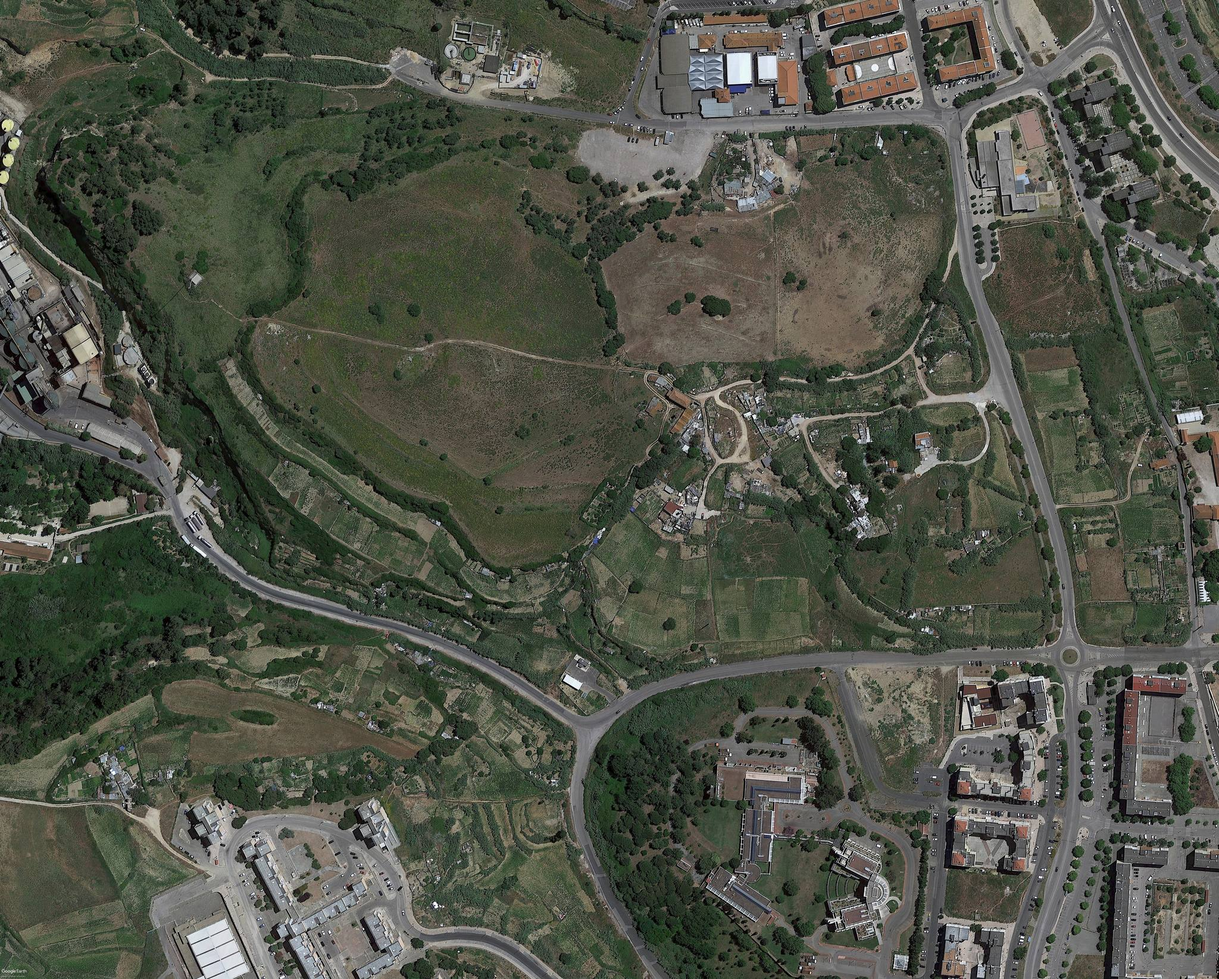
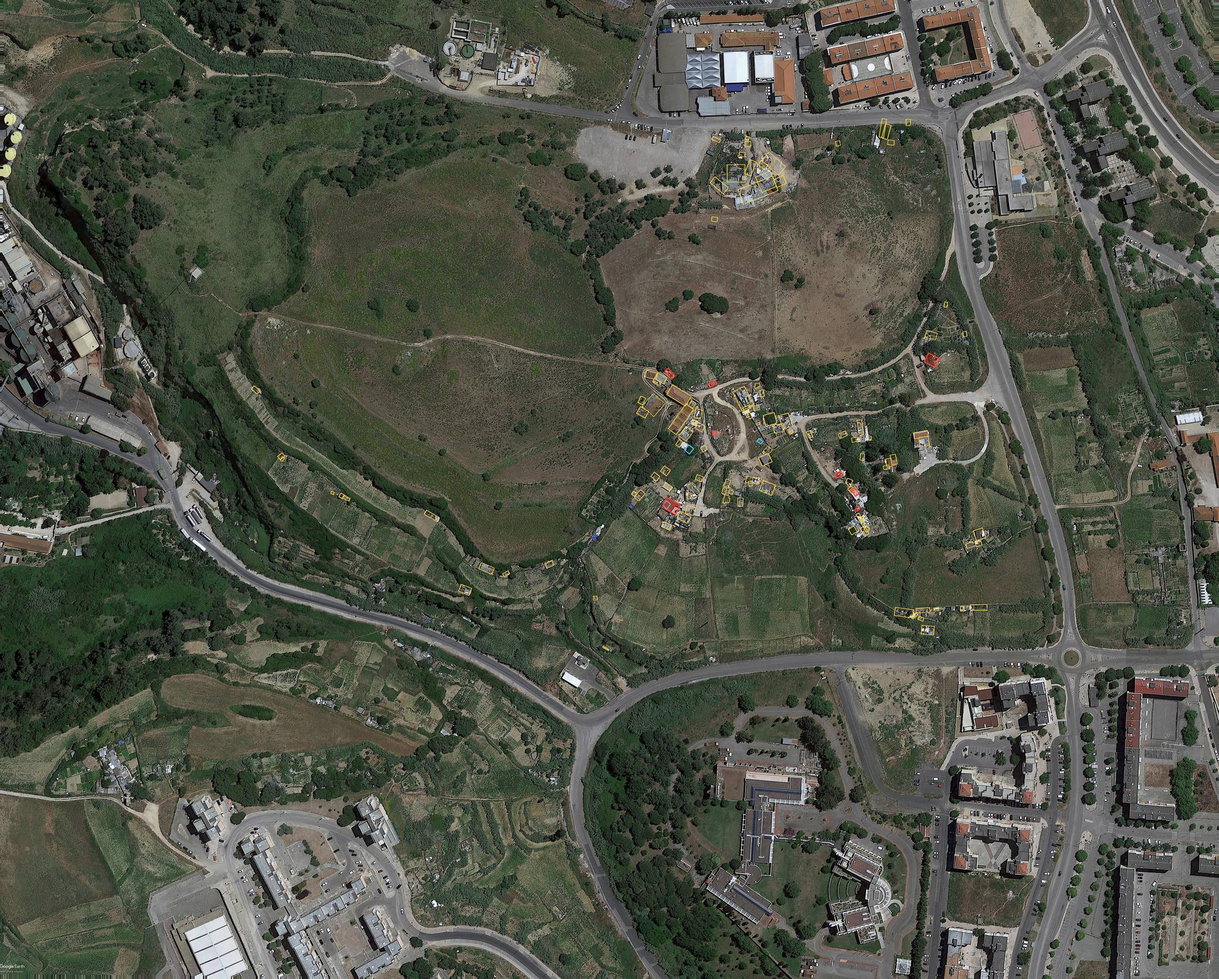
Retroceder: as 15 imagens da contagem de casas, com as casas desenhadas e os números
As fotografias passam a ser as 15 imagens da recontagem casa a casa
(2009 a agosto de 2026: Google Earth, Esri, DGT e o drone), no mesmo
enquadramento de antes e sem a linha da zona. Em cada uma, as casas
novas a vermelho, as que já existiam a amarelo e as demolidas a azul;
por baixo da data, o total de casas, as novas e as demolidas, nas
quatro línguas. Julho de 2024 volta a entrar (é uma das 15).

Também: a fotografia enche o ecrã mesmo quando a página abre escondida;
a miniatura do Retroceder refeita.

diff --git a/public/timelapse.html b/public/timelapse.html
@@ -119,7 +119,7 @@
             box-sizing: border-box;
             /* A altura da cruz de fechar lá de fora, para a data ficar
                alinhada com ela. */
-            height: calc(var(--folga-cima) + 41px + 40px);
+            height: calc(var(--folga-cima) + 41px + 64px);
             padding: var(--folga-cima) var(--folga-lado) 0;
             background: linear-gradient(to bottom, var(--veu-forte), var(--veu-medio) 55%, var(--veu-nenhum));
             pointer-events: none;
@@ -132,6 +132,19 @@
             font-weight: 600;
             white-space: nowrap;
         }
+        /* Os números da contagem de casas dessa fotografia, por baixo da
+           data, com as cores dos contornos desenhados nela: amarelo o
+           total, vermelho as novas, azul as demolidas. */
+        #casas {
+            margin-top: 2px;
+            font-size: 0.95rem;
+            white-space: nowrap;
+            text-shadow: 0 1px 3px rgba(0, 0, 0, 0.8);
+        }
+        #casas .total { color: #ffd23c; font-weight: 600; }
+        #casas .novas { color: #ff6a52; }
+        #casas .demolidas { color: #5cc8ff; }
+        #casas .sep { color: rgba(255, 255, 255, 0.5); }
 
         /* ---- Os lados ----
            As setas dos vídeos: de cada lado, junto à borda, a seta que leva
@@ -442,7 +455,7 @@
             }
             /* A cruz de fechar lá de fora encolhe com os botões. */
             .barra-da-data {
-                height: calc(var(--folga-cima) + 39px + 32px);
+                height: calc(var(--folga-cima) + 39px + 56px);
             }
             #data {
                 height: 39px;
@@ -479,6 +492,7 @@
 
     <div class="barra-da-data">
         <div id="data"></div>
+        <div id="casas"></div>
     </div>
 
     <div class="video-controls" id="controlos">
@@ -512,7 +526,7 @@
     </div>
 
     <script type="module">
-        import { FOTOGRAFIAS, LARGURA_LEVE, LARGURA_NITIDA, FEITIO, enderecoDa, dataDa } from './timelapse.mjs?v=2';
+        import { FOTOGRAFIAS, LARGURA_LEVE, LARGURA_NITIDA, FEITIO, enderecoDa, dataDa, casasDa } from './timelapse.mjs?v=3';
 
         const TOTAL = FOTOGRAFIAS.length;
         const ULTIMA = TOTAL - 1;
@@ -756,14 +770,36 @@
             arrumarANitida();
         };
 
+        // Os números das casas, com cada parte na sua cor. Escritos com
+        // textContent (nada de HTML vindo de fora).
+        const casasEl = document.getElementById('casas');
+        const escreverAsCasas = (foto) => {
+            casasEl.textContent = '';
+            const partes = casasDa(foto).split(' · ');
+            const classes = ['total', foto.novas !== undefined ? 'novas' : 'sep', 'demolidas'];
+            partes.forEach((texto, i) => {
+                if (i) {
+                    const sep = document.createElement('span');
+                    sep.className = 'sep';
+                    sep.textContent = ' · ';
+                    casasEl.appendChild(sep);
+                }
+                const el = document.createElement('span');
+                el.className = classes[i] || '';
+                el.textContent = texto;
+                casasEl.appendChild(el);
+            });
+        };
+
         const escreverAData = () => {
             const k = atual();
             const foto = FOTOGRAFIAS[k];
             const data = dataDa(foto);
             dataEl.textContent = data;
+            escreverAsCasas(foto);
             creditosEl.textContent = foto.creditos;
             linha.setAttribute('aria-valuenow', String(k));
-            linha.setAttribute('aria-valuetext', data);
+            linha.setAttribute('aria-valuetext', data + ' — ' + casasDa(foto));
             anosEl.querySelectorAll('.ano').forEach((el) => {
                 el.classList.toggle('atual', Number(el.dataset.ano) === foto.ano);
             });
@@ -1212,7 +1248,11 @@
             ecraDeAntes = e;
             voo = null;
             ancora = null;
-            const largura = Math.max(larguraMinima(), Math.min(larguraMaxima(), vista.largura * proporcao));
+            // Se a página abriu sem tamanho (escondida), ainda não havia
+            // vista: começa com o ecrã cheio, como ao abrir à vista.
+            const largura = cheioAntes > 0
+                ? Math.max(larguraMinima(), Math.min(larguraMaxima(), vista.largura * proporcao))
+                : larguraACheio();
             larguraPedida = largura;
             porLargura(largura, e.w / 2, e.h / 2, meio.x, meio.y);
             pintarBotoesDoZoom();

diff --git a/public/idiomas.js b/public/idiomas.js
@@ -137,6 +137,10 @@
             'tl.carregar': 'A carregar fotografias de satélite…',
             'tl.erro': 'Não foi possível carregar as fotografias de satélite.',
             'tl.linha': 'Data da fotografia',
+            'tl.casas': '{n} casas',
+            'tl.novas': '+{n} novas',
+            'tl.demolidas': '−{n} demolidas',
+            'tl.inicio': 'ponto de partida',
             'tl.meses': 'Janeiro,Fevereiro,Março,Abril,Maio,Junho,Julho,Agosto,Setembro,Outubro,Novembro,Dezembro',
 
             // O mapa dos bairros. "Mapa dos Bairros" é o nome do sítio,
@@ -438,6 +442,10 @@
             'tl.carregar': 'Loading satellite photos…',
             'tl.erro': 'The satellite photos could not be loaded.',
             'tl.linha': 'Photo date',
+            'tl.casas': '{n} houses',
+            'tl.novas': '+{n} new',
+            'tl.demolidas': '−{n} demolished',
+            'tl.inicio': 'starting point',
             'tl.meses': 'January,February,March,April,May,June,July,August,September,October,November,December',
 
             'mb.separador': 'Mapa dos Bairros',
@@ -730,6 +738,10 @@
             'tl.carregar': 'Cargando fotografías de satélite…',
             'tl.erro': 'No se han podido cargar las fotografías de satélite.',
             'tl.linha': 'Fecha de la fotografía',
+            'tl.casas': '{n} casas',
+            'tl.novas': '+{n} nuevas',
+            'tl.demolidas': '−{n} demolidas',
+            'tl.inicio': 'punto de partida',
             'tl.meses': 'Enero,Febrero,Marzo,Abril,Mayo,Junio,Julio,Agosto,Septiembre,Octubre,Noviembre,Diciembre',
 
             'mb.separador': 'Mapa dos Bairros',
@@ -1022,6 +1034,10 @@
             'tl.carregar': 'Ta karega fotografias di satélite…',
             'tl.erro': 'Ka konsigi karega fotografias di satélite.',
             'tl.linha': 'Data di fotografia',
+            'tl.casas': '{n} kasa',
+            'tl.novas': '+{n} nobu',
+            'tl.demolidas': '−{n} dirubadu',
+            'tl.inicio': 'pontu di partida',
             'tl.meses': 'Janeru,Febreru,Marsu,Abril,Maiu,Junhu,Julhu,Agostu,Setenbru,Otubru,Nuvenbru,Dizenbru',
 
             'mb.separador': 'Mapa dos Bairros',
